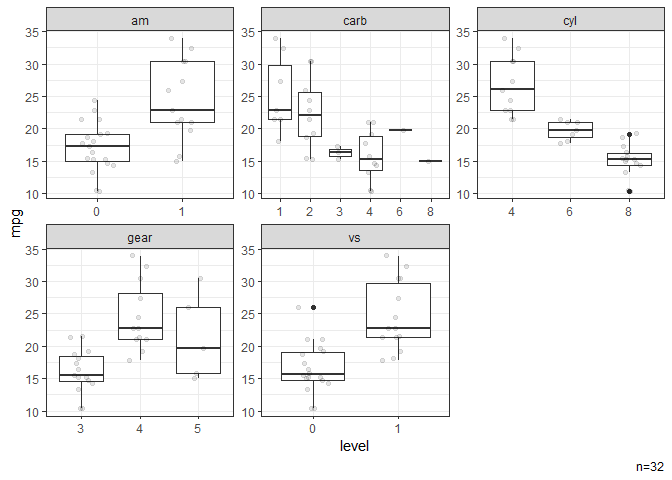
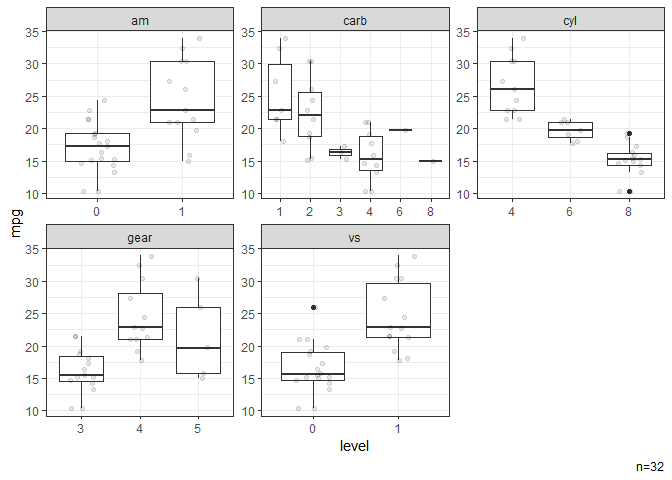
CRAN release

diff --git a/NEWS.md b/NEWS.md
@@ -1,18 +1,20 @@
 # edar (development version)
 
-* New `gtsrc()` to convert gtsummary object to flextable and add source label. 
+* `g*()` replaces the `geo_*()` family. 
 
-* New `ftdoc()` to save flextable with label of output path. 
+* New `gtsrc()` converts gtsummary object to flextable and add source label. 
+
+* New `ftdoc()` saves flextable with label of output path. 
 
 # edar 0.0.7 
 
 ## New features 
 
-* New `ggout()` to save ggplot with label of output path. 
+* New `ggout()` saves ggplot with label of output path. 
 
 * New `geo_mean()`, `geo_sd()` and `geo_cv()` for geometric mean, standard deviation and coefficient of variation. 
 
-* New `tab2v()` to produce tables for 2 variables. 
+* New `tab2v()` produces tables for 2 variables. 
 
 ## Minor improvements and fixes
 

diff --git a/README.md b/README.md
@@ -16,18 +16,13 @@ status](https://www.r-pkg.org/badges/version/edar)](https://CRAN.R-project.org/p
 The goal of edar is to provide some convenient functions to facilitate
 common tasks in exploratory data analysis.
 
-## Citation
-
-Sou T (2026). *edar: Convenient Functions for Exploratory Data
-Analysis*. R package version 0.0.7, <https://github.com/soutomas/edar>.
-
 ## Installation
 
 ``` r
-# From CRAN - for the latest CRAN release 
+# From CRAN 
 install.packages("edar")
 
-# From GitHub - for the development version
+# From GitHub - for the latest development version
 # install.packages("pak")
 pak::pak("soutomas/edar")
 ```
